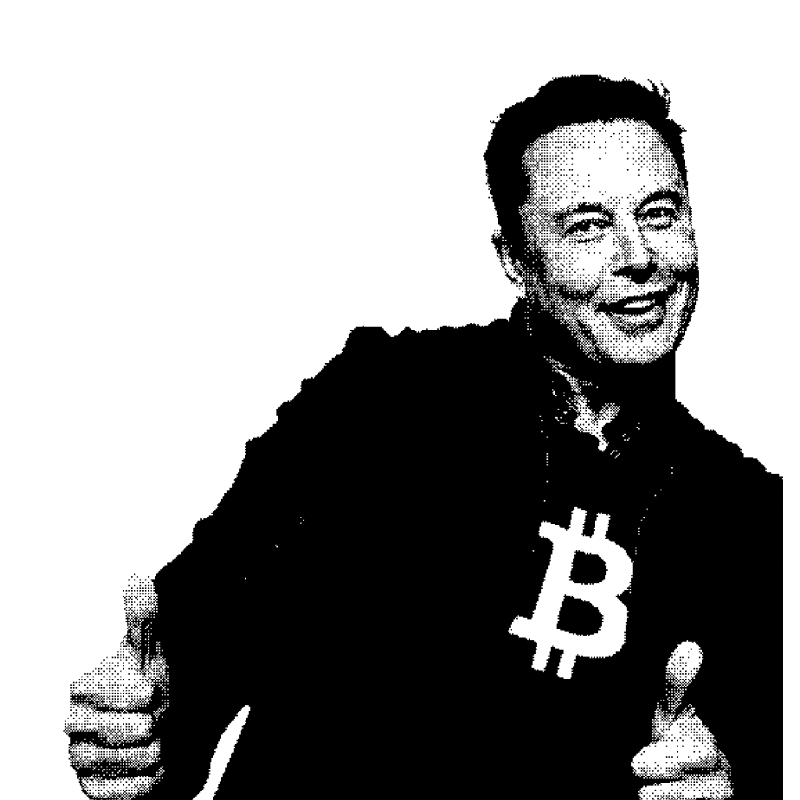
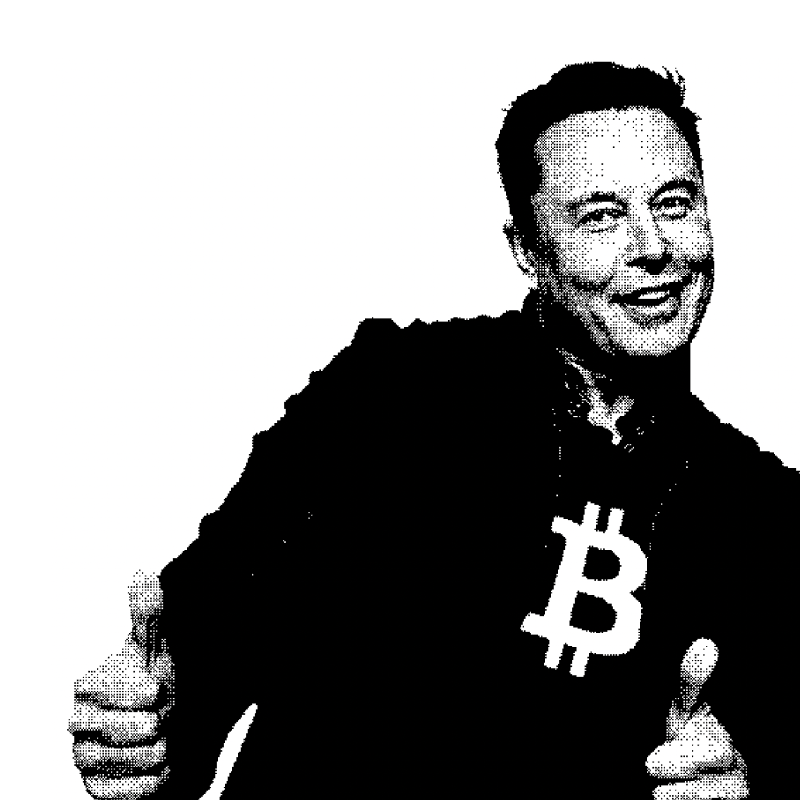
v1.3.7 updated trendle images

diff --git a/test/trendle-trading.ts b/test/trendle-trading.ts
@@ -16,7 +16,6 @@ generateImage({
       isLong: true,
     },
     pnl: -48.5,
-    referralUrl: 'dev-app.trendle.fi/?inviteCode=98a746'
   }
 })
 
@@ -35,7 +34,6 @@ generateImage({
       isLong: false,
     },
     pnl: -23.1,
-    referralUrl: 'dev-app.trendle.fi/?inviteCode=98a746'
   }
 })
 
@@ -54,7 +52,6 @@ generateImage({
       isLong: false,
     },
     pnl: -23.1,
-    referralUrl: 'dev-app.trendle.fi/?inviteCode=98a746'
   }
 })
 
@@ -73,7 +70,6 @@ generateImage({
       isLong: false,
     },
     pnl: -23.1,
-    referralUrl: 'dev-app.trendle.fi/?inviteCode=98a746'
   }
 })
 
@@ -92,7 +88,6 @@ generateImage({
       isLong: false,
     },
     pnl: 13.1,
-    referralUrl: 'dev-app.trendle.fi/?inviteCode=98a746'
   }
 })
 
@@ -111,7 +106,6 @@ generateImage({
       isLong: false,
     },
     pnl: 13.1,
-    referralUrl: 'dev-app.trendle.fi/?inviteCode=98a746'
   }
 })
 
@@ -130,7 +124,6 @@ generateImage({
       isLong: false,
     },
     pnl: 13.1,
-    referralUrl: 'dev-app.trendle.fi/?inviteCode=98a746'
   }
 })
 
@@ -149,6 +142,5 @@ generateImage({
       isLong: false,
     },
     pnl: 13.1,
-    referralUrl: 'dev-app.trendle.fi/?inviteCode=98a746'
   }
 })

diff --git a/src/templates/trendle-trading/index.html b/src/templates/trendle-trading/index.html
@@ -129,8 +129,8 @@
     .card {
       background: --card-bg-color;
       width: 1200px;
-      height: 800px;
-      padding: 32px 32px 26px;
+      height: 630px;
+      padding: 48px;
       position: relative;
     }
 
@@ -178,19 +178,6 @@
       font-weight: 700;
     }
 
-    .code__text {
-      color: rgba(0, 0, 0, 0.8);
-      font-size: 24px;
-      line-height: 100%;
-      opacity: 50%;
-    }
-
-    .code__link {
-      margin-top: 4px;
-      font-size: 28px;
-      line-height: 37px;
-    }
-
     .right-img {
       position: absolute;
       top: 0px;
@@ -207,7 +194,7 @@
 
     .person-img {
       position: absolute;
-      height: 90%;
+      height: 100%;
       bottom: 0px;
       right: 0px;
       mix-blend-mode: multiply;
@@ -240,10 +227,6 @@
         </div>
       </div>
       <div class="pnl">{pnl}%</div>
-    </div>
-    <div class="code">
-      <div class="code__text">Referral code</div>
-      <div class="code__link">{refferalLink}</div>
     </div>
   </div>
 </body>

diff --git a/src/templates/trendle-trading/index.ts b/src/templates/trendle-trading/index.ts
@@ -25,15 +25,14 @@ export type Props = {
     isLong: boolean
   }
   pnl: number
-  referralUrl: string
 }
 
 const template: Template<Props> = {
-  width: 670,
-  height: 445,
+  width: 1200,
+  height: 630,
   type: 'jpeg',
   html: async (props) => {
-    const { type, trend, pnl, position, referralUrl } = props
+    const { type, trend, pnl, position } = props
 
     const isProfit = pnl > 0
     const { rightImg, bgColor } = isProfit ? cardTypes.profit : cardTypes.loss
@@ -61,7 +60,6 @@ const template: Template<Props> = {
       .replace('{trendTitle}', trend.title)
       .replace('{positionInfo}', positionInfo)
       .replace('{arrowImage}', arrowImage)
-      .replace('{refferalLink}', referralUrl)
       .replace('{pnl}', pnl > 0 ? `+${pnl}` : `${pnl}`)
   }
 }
